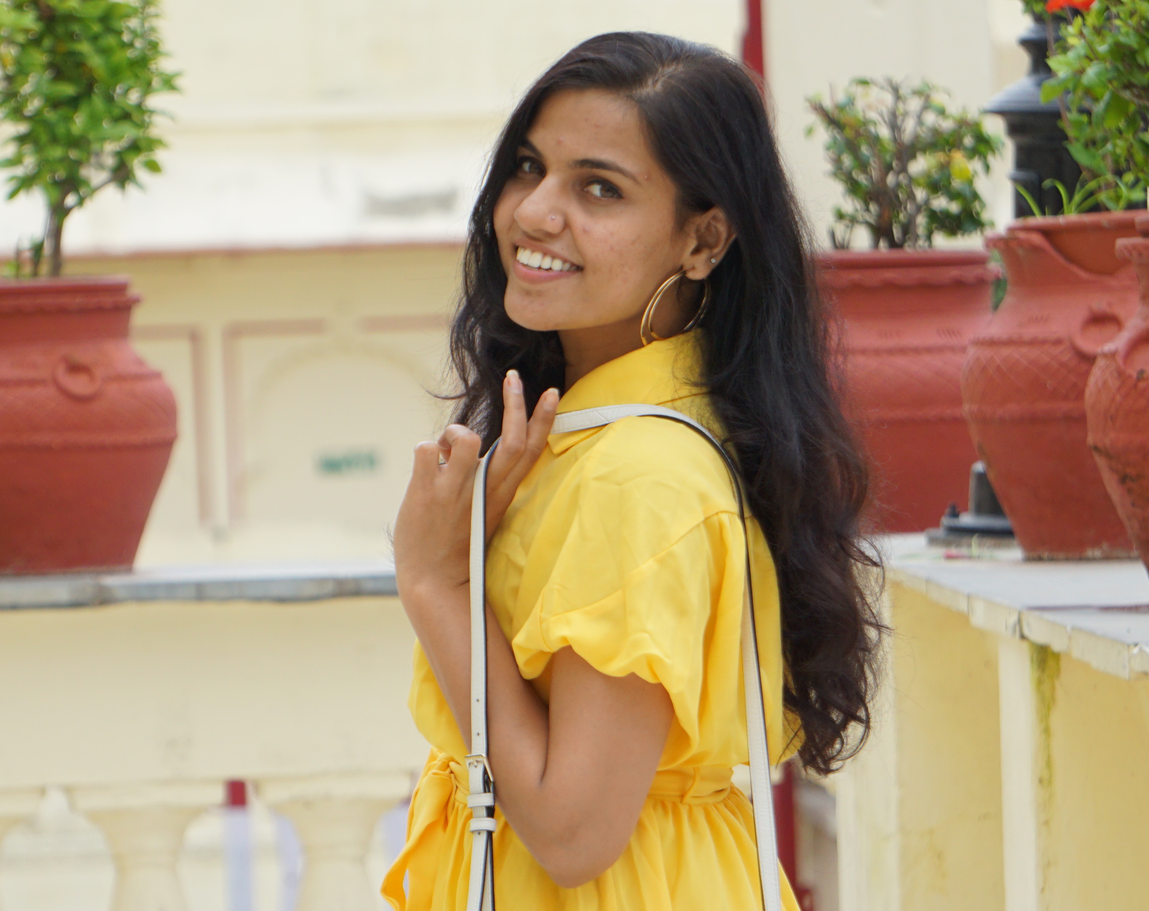
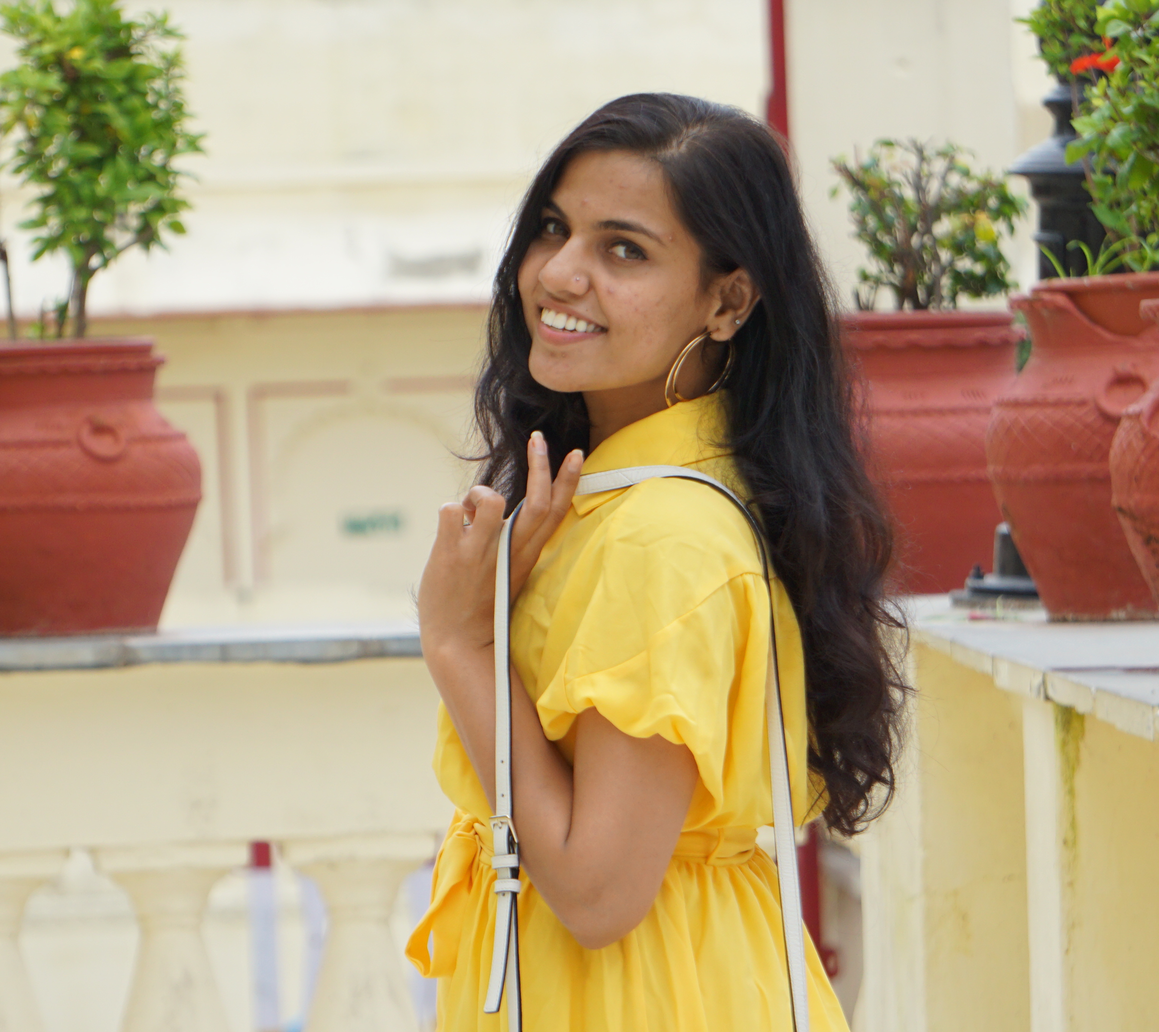
amith changed

diff --git a/index.html b/index.html
@@ -121,7 +121,7 @@
 						</div>
 						<div class="col-md-2 col-sm-2 col-xs-2 nopadding"><h2 class="amp-center"><i class="icon-heart"></i></h2></div>
 						<div class="col-md-5 col-sm-5 col-xs-5 nopadding">
-							<img src="images/amith.jpg" class="img-responsive" alt="Free HTML5 Bootstrap Template by FreeHTML5.co">
+							<img src="images/amith_2.jpg" class="img-responsive" alt="Free HTML5 Bootstrap Template by FreeHTML5.co">
 							<h3>Amith Prasad</h3>
 						</div>
 					</div>

diff --git a/groom-bride.html b/groom-bride.html
@@ -141,7 +141,7 @@
 				<div class="row padding">
 					<div class="couple-wrap">
 						<div class="col-md-6 col-md-push-6 nopadding animate-box">
-							<img src="images/amith.jpg" class="img-responsive" alt="Free HTML5 Bootstrap Template by FreeHTML5.co">
+							<img src="images/amith_2.jpg" class="img-responsive" alt="Free HTML5 Bootstrap Template by FreeHTML5.co">
 						</div>
 						<div class="col-md-6 col-md-pull-6 nopadding animate-box">
 							<div class="couple-desc">
